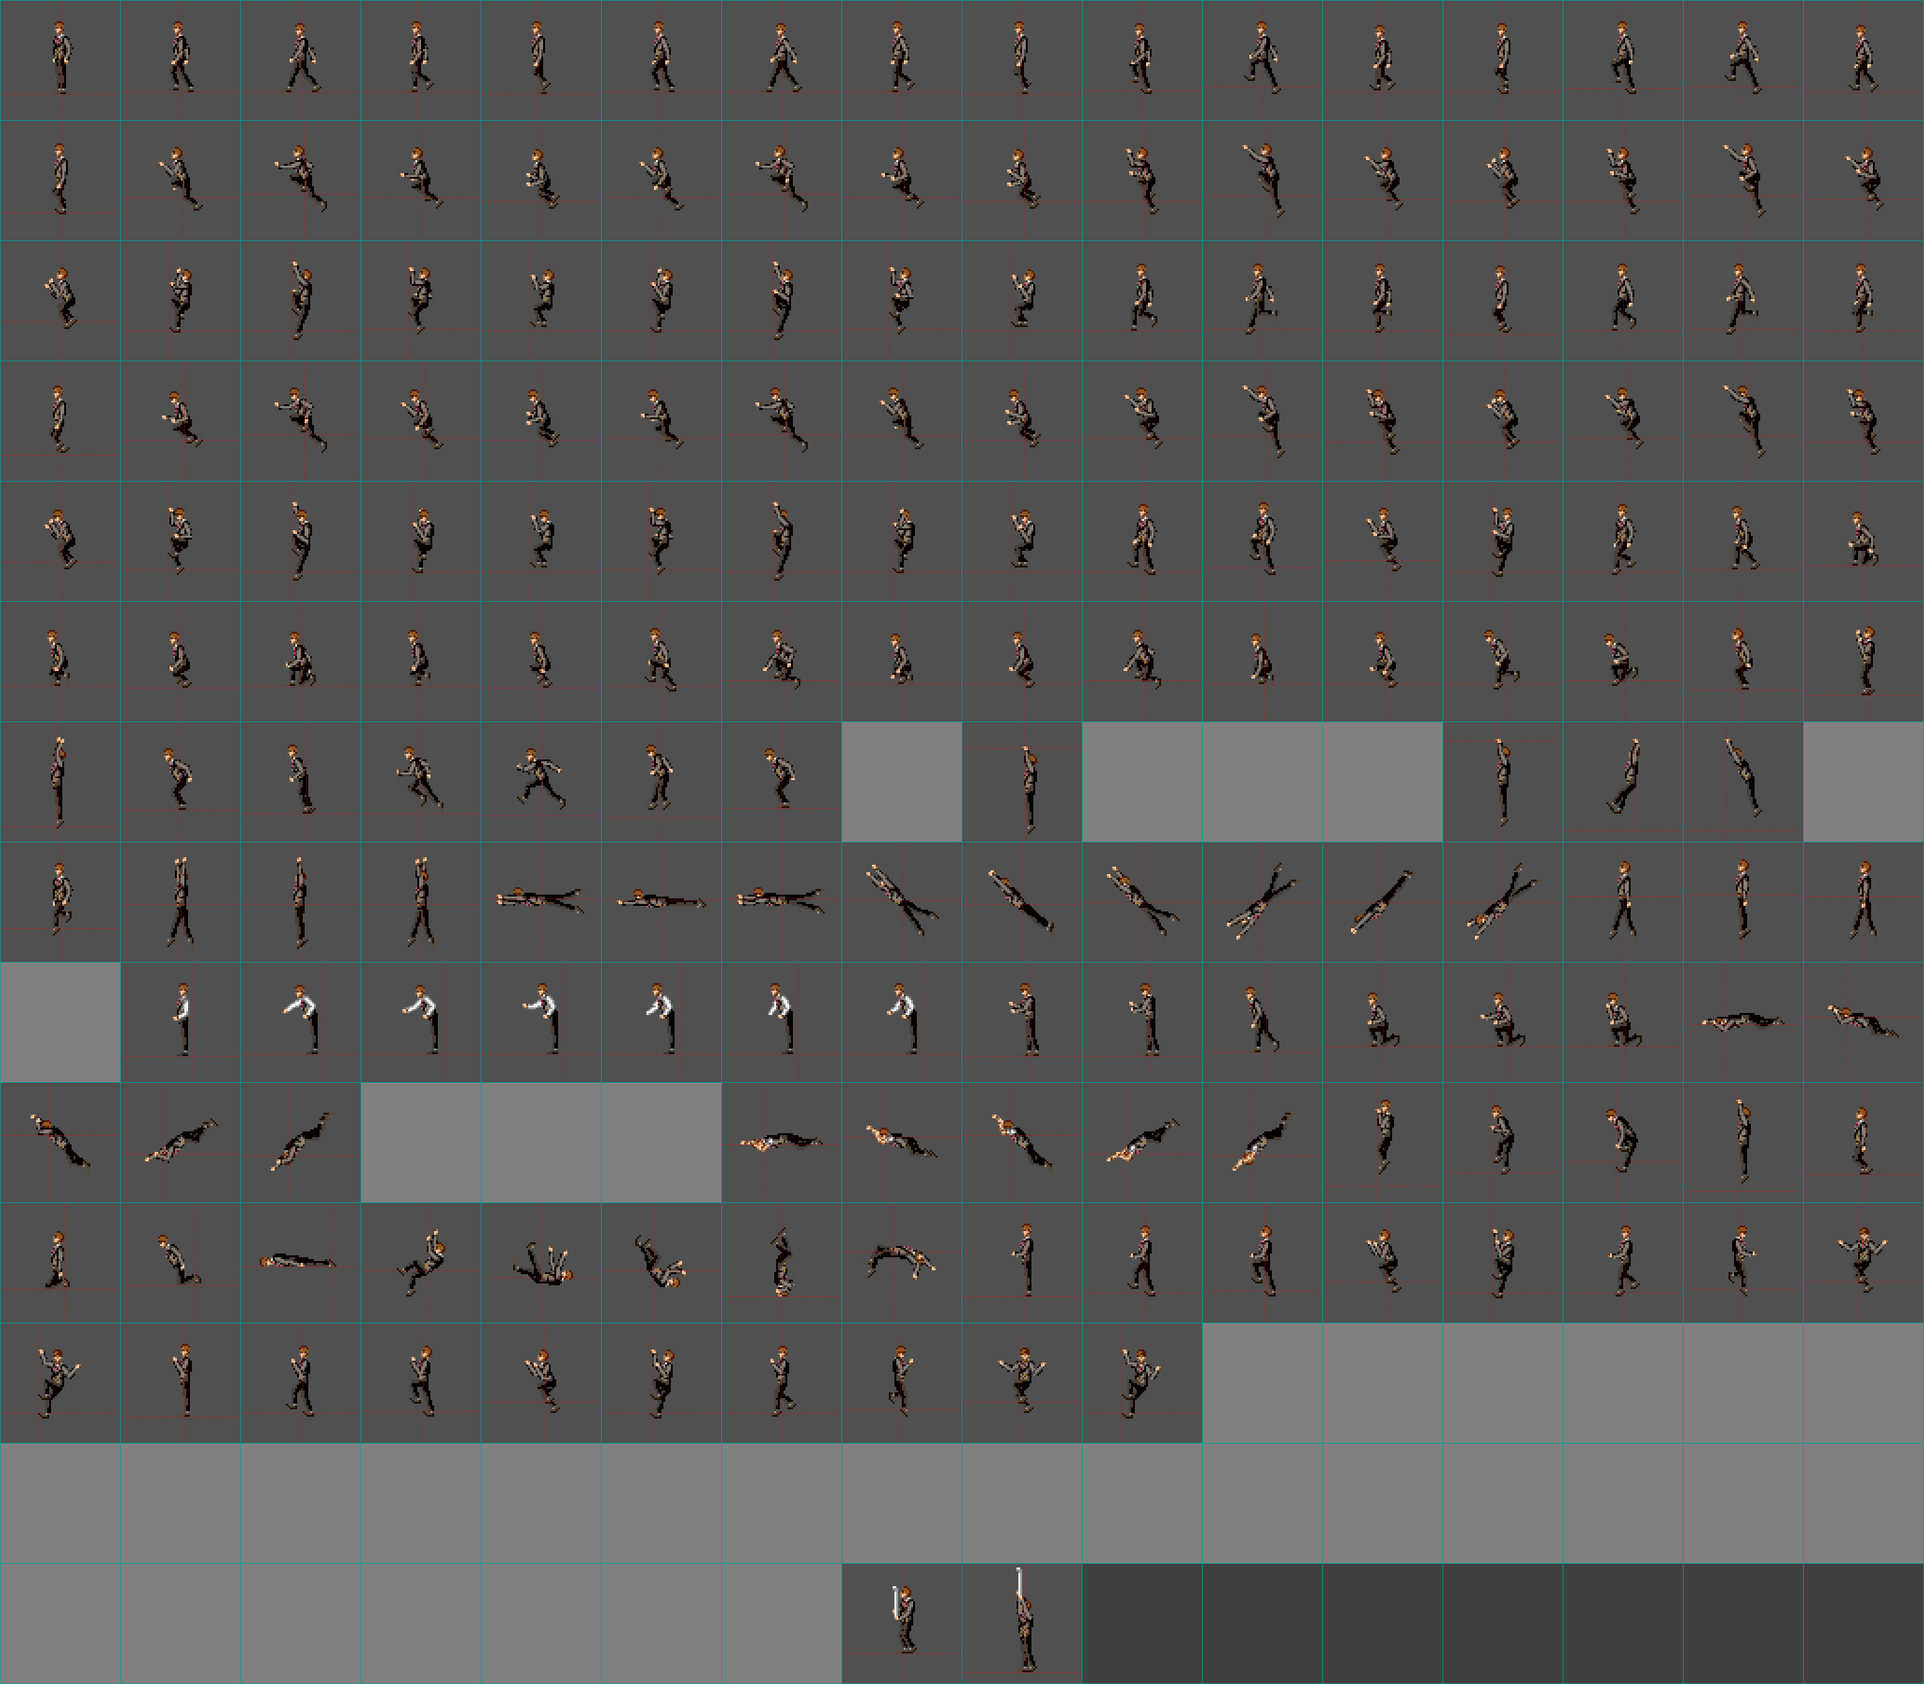
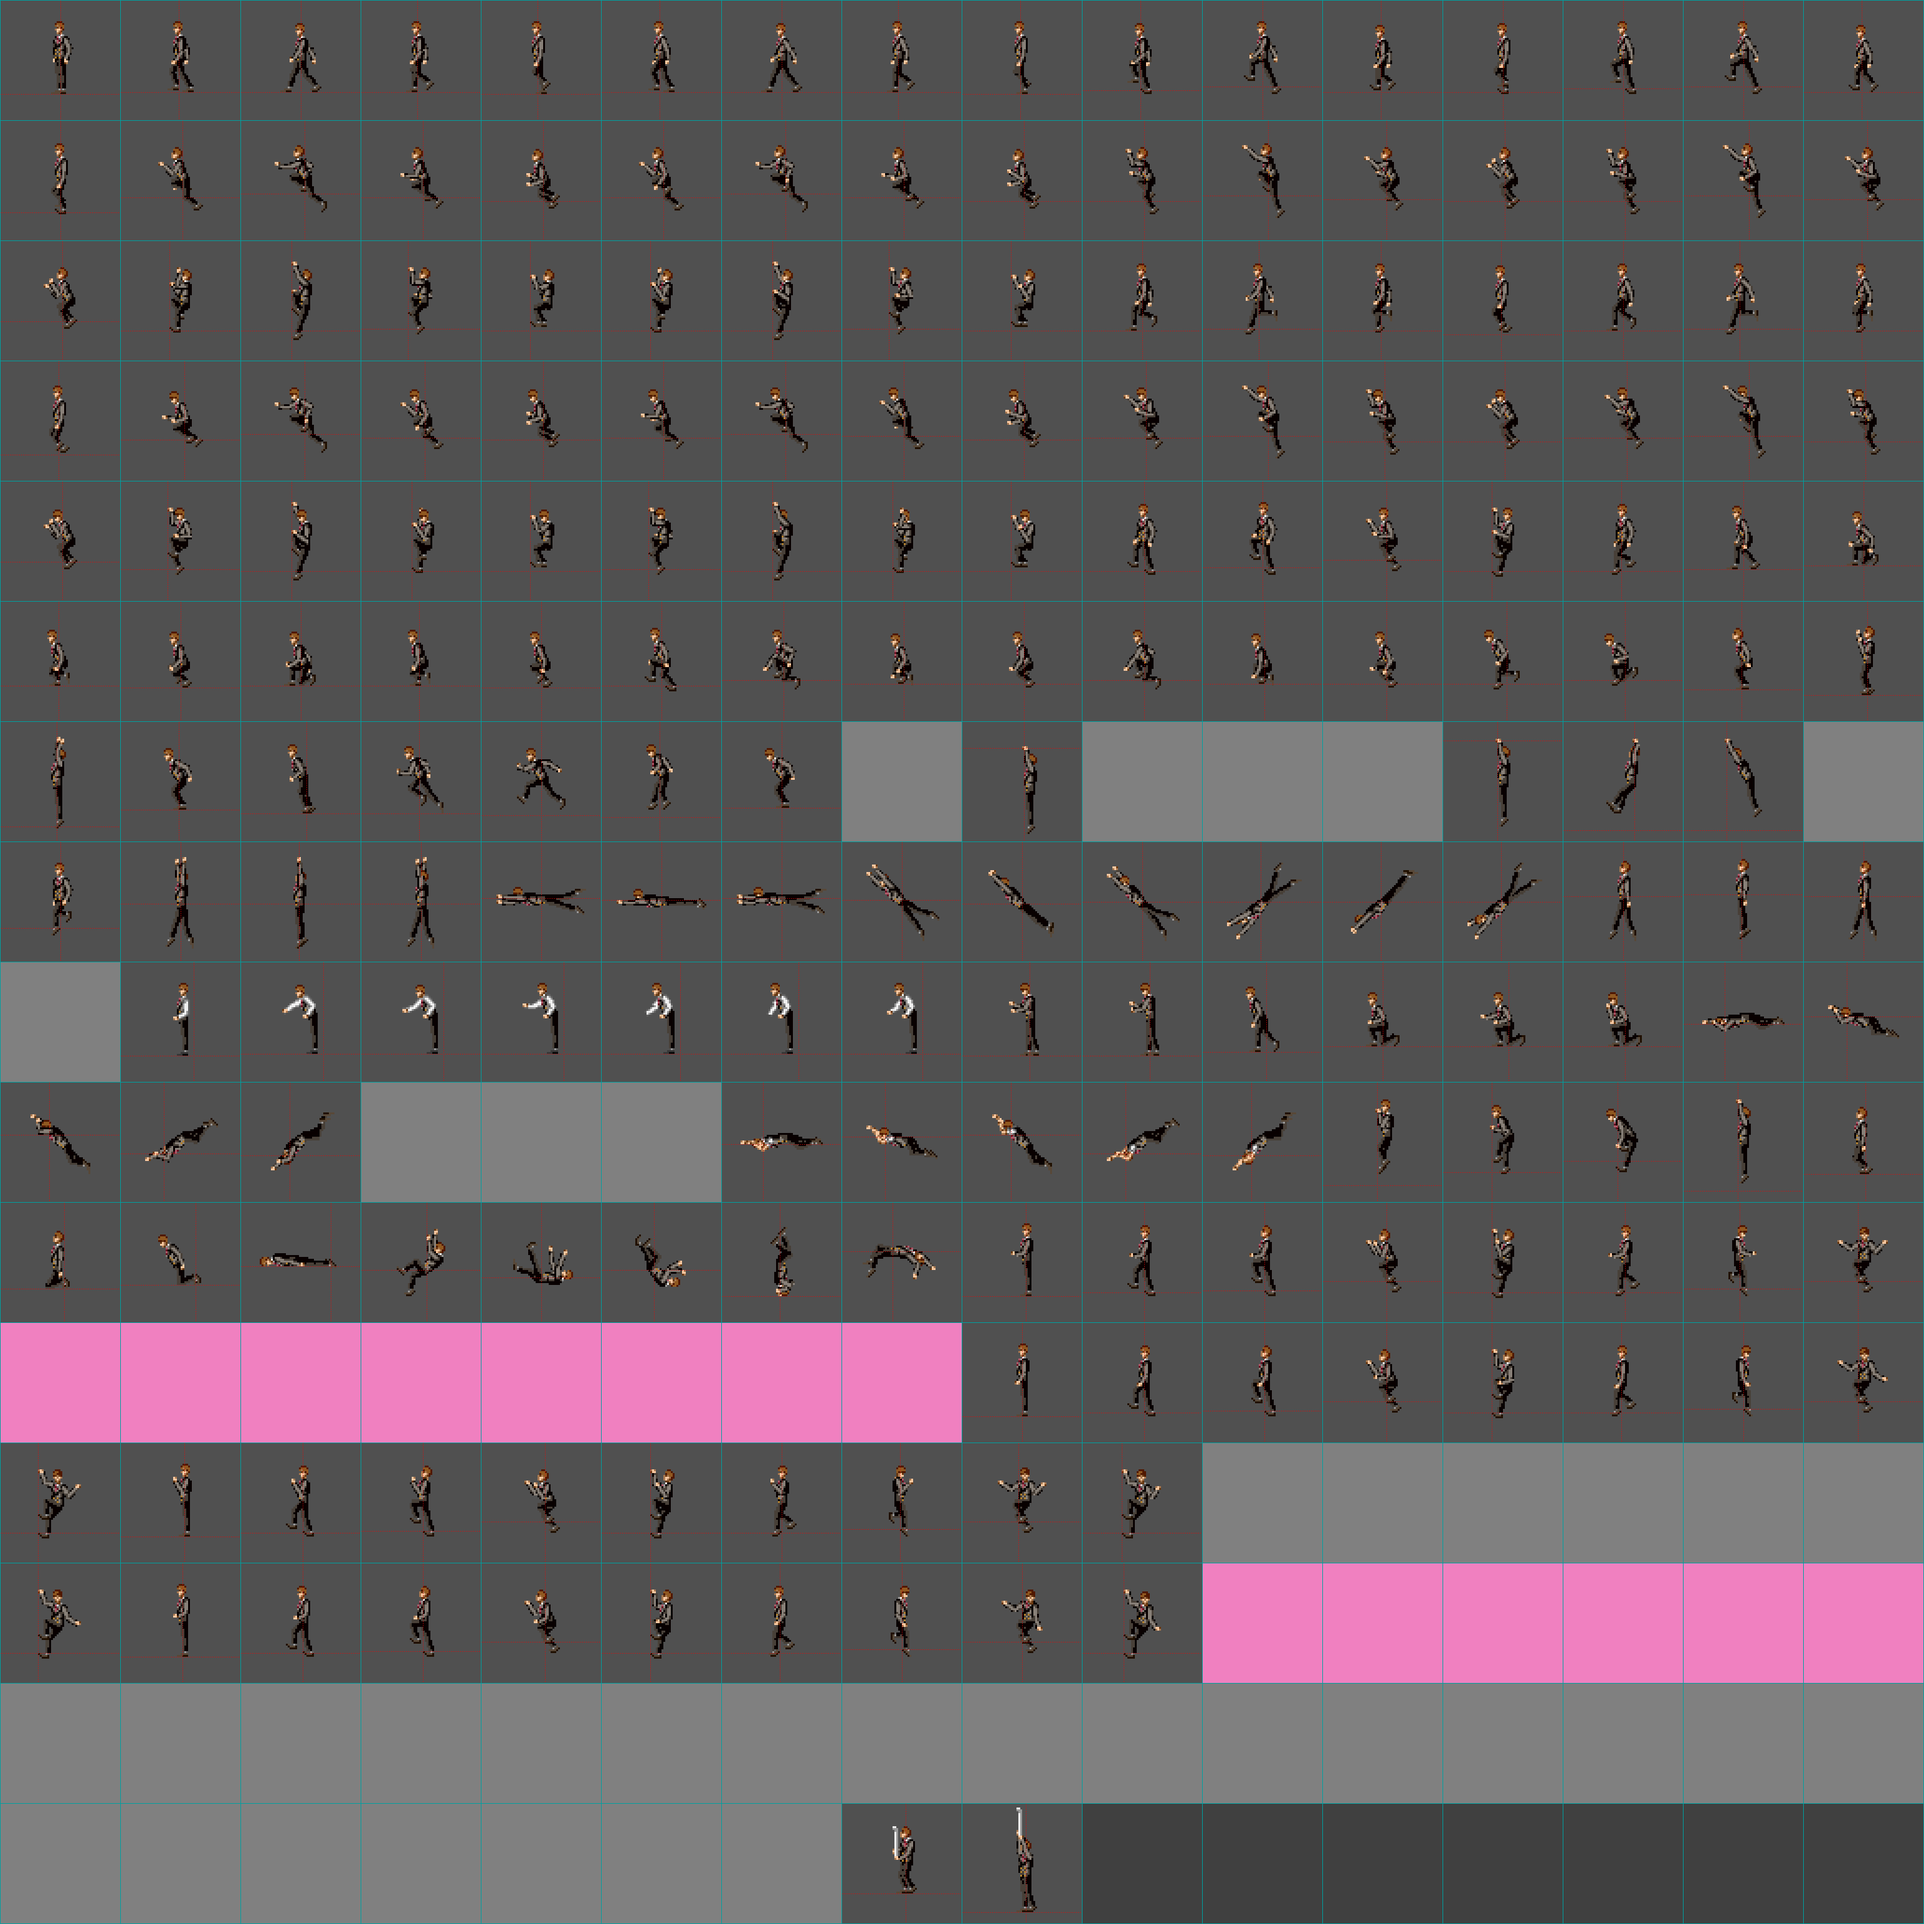
add other conversation poses creation feature

diff --git a/utils/mkposeimg.rb b/utils/mkposeimg.rb
@@ -16,16 +16,15 @@ bg=mkpixel[10,10,10,true]
 rline=mkpixel[31,0,0]
 blank1=mkpixel[16,16,16]
 blank2=mkpixel[8,8,8]
+blank3=mkpixel[30,16,24]
 lcol=mkpixel[ 0,20,20]
 ipallet=[
   nil,
   *8.times.flat_map{|pid|
     vmgr.getspcolors(pid)[1..-1].map{|r| mkpixel[*r] }
   },
-  blank1,blank2
+  blank1,blank2,blank3
 ]
-btile1=[[121]*64]*64
-btile2=[[122]*64]*64
 
 tiles2file=->tiles,file,dotsize=3{
   rown=tiles.size/16
@@ -96,32 +95,47 @@ pmgr=PartsMgr.new(romobj)
 PartsMgr::CGID_RANGE.each{|cgid|
   ptab = pmgr.getpaddrtab(cgid)
   pidmax=ptab.keys.max
-  pnum = pidmax/16*16 + 16
-  ps=[[btile1,-1,-1]]*pidmax+[[btile2,-1,-1]]*(pnum-pidmax)
+  bpartss=(121..123).map{|px| [[[[px]*64]*64,-1,-1]] }
+  ps=(
+    cgid>=25 ?
+      [[0,pidmax+1],[1,(-pidmax-1)%16]] :
+    pidmax>=192 ?
+      [[0,176],[2,16],[0,16],[2,16],[0,pidmax-191],[1,(-pidmax-1)%16]] :
+      [[0,176],[2,16],[0,pidmax-175],[1,(-pidmax-1)%16],[2,16]]
+  ).reduce([]){|s,(i,n)| s+bpartss[i]*n }
   ptab.each{|pid,(bank,addr)|
-    xi,xs,yi,ys,parts=pmgr.getparts(bank,addr)
-    xi=0 if xi>0
-    yi=0 if yi>0
-    xs=0 if xs<0
-    ys=0 if ys<0
-    xbase=(64-xs-xi)/2
-    ybase=ys-yi>64 ? 62-ys : (64-ys-yi)/2
-    itile=64.times.map{[0]*64}
-    eid=geteid[cgid,pid]
-    parts.each{|part|
-      tile=gettile[part.tid,part.pid,eid,part.quad]
-      x,y=part.x+xbase,part.y+ybase
-      (part.quad ? 16 : 8).times{|dy|
-        next if dy+y<0
-        dyc=part.vrev ? (part.quad ? 15 : 7)-dy : dy
-        (part.quad ? 16 : 8).times{|dx|
-          next if itile[y+dy][x+dx]!=0
-          dxc=part.hrev ? (part.quad ? 15 : 7)-dx : dx
-          itile[y+dy][x+dx]=tile[dyc][dxc]
+    dids=[nil]
+    if (168...177)===pid
+      dids << (cgid*9+pid-168)
+    elsif (177...186)===pid
+      dids << (cgid*9+pid+48)
+    end
+    dids.each{|did|
+      xi,xs,yi,ys,parts=pmgr.getparts(bank,addr,did)
+      xi=0 if xi>0
+      yi=0 if yi>0
+      xs=0 if xs<0
+      ys=0 if ys<0
+      xbase=(64-xs-xi)/2
+      ybase=ys-yi>64 ? 62-ys : (64-ys-yi)/2
+      itile=64.times.map{[0]*64}
+      eid=geteid[cgid,pid]
+      parts.each{|part|
+        tile=gettile[part.tid,part.pid,eid,part.quad]
+        x,y=part.x+xbase,part.y+ybase
+        (part.quad ? 16 : 8).times{|dy|
+          next if dy+y<0
+          dyc=part.vrev ? (part.quad ? 15 : 7)-dy : dy
+          (part.quad ? 16 : 8).times{|dx|
+            next if itile[y+dy][x+dx]!=0
+            dxc=part.hrev ? (part.quad ? 15 : 7)-dx : dx
+            itile[y+dy][x+dx]=tile[dyc][dxc]
+          }
         }
       }
+      pid_c=pid+(pid<176 ? 0 : pid<192 ? 16 : 32)+(did ? 16 : 0)
+      ps[pid_c]=[itile,ybase,xbase]
     }
-    ps[pid]=[itile,ybase,xbase]
   }
   tiles2file[ps,"pose-%02d.png"%cgid]
 } 

diff --git a/utils/lib/sputl.rb b/utils/lib/sputl.rb
@@ -5,6 +5,9 @@ class PartsMgr
   Part=Struct.new(:tid, :pid, :x, :y, :quad, :hrev, :vrev) {
     #WIP
   }
+  @@diffidmap={
+    0=>0, 1=>1, 2=>2, 5=>3, 
+  }
   def initialize(romobj)
     @rom=romobj
   end
@@ -24,7 +27,7 @@ class PartsMgr
       prev=addr
     }
   end
-  def getparts_aux(bank, addr, dx=0, dy=0, n=255)
+  def getparts_aux(bank, addr, did, off=0, dx=0, dy=0, n=255)
     parts=[]
     xinf=yinf=256
     xsup=ysup=-256
@@ -35,7 +38,7 @@ class PartsMgr
       if flag>=0xc0
         break
       elsif flag>=0x40
-        xi,xs,yi,ys,aparts=getparts_aux(bank,(p2<<8)|p1,dx+x,dy+y,flag&63)
+        xi,xs,yi,ys,aparts=getparts_aux(bank,(p2<<8)|p1,did,parts.size,dx+x,dy+y,flag&63)
         parts+=aparts
         xinf=xi if xi<xinf
         yinf=yi if yi<yinf
@@ -43,6 +46,17 @@ class PartsMgr
         ysup=ys if ys>ysup
         break if flag>=0x80
       else
+        if did
+          i=off+parts.size
+          j=@@diffidmap[i]
+          if j
+            ddy,ddx,dp1,dp2=@rom.getbytes(0x9e,0x8000+did*16+j*4,4)
+            x+=ddx>=128 ? 128-ddx : ddx
+            y+=ddy>=128 ? 128-ddy : ddy
+            p1^=dp1
+            p2^=dp2
+          end
+        end
         part=Part.new(
           p2&1==0 ? p1 : p1+256,
           (p2&0xe)>>1,
@@ -65,7 +79,7 @@ class PartsMgr
     end
     [xinf,xsup,yinf,ysup,parts]
   end
-  def getparts(bank, addr)
-    getparts_aux(bank, addr)
+  def getparts(bank, addr, did=nil)
+    getparts_aux(bank, addr, did)
   end
 end
